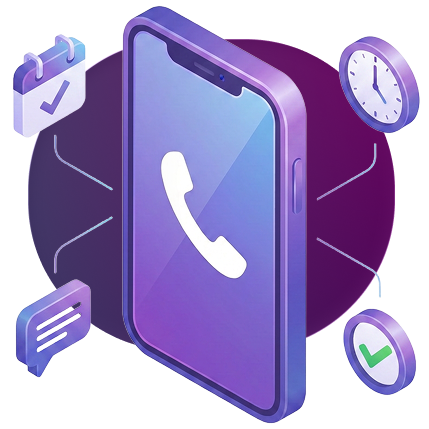
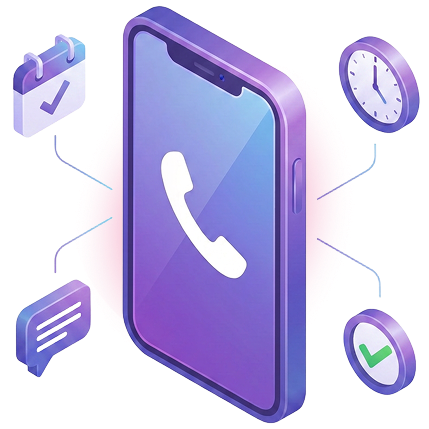
update book calendar

Changed region(s): [[0.5152, 0.0909, 0.9394, 0.7879], [0.0606, 0.1212, 0.3333, 0.8182]]

diff --git a/data/bookACall.ts b/data/bookACall.ts
@@ -19,33 +19,34 @@ export const bookACallHero = {
    * Illustration overlap into the form section (px). Smaller on mobile to avoid excess whitespace.
    */
   heroOverlapPx: {
-    mobile: 64,
-    sm: 88,
-    lg: 140,
+    mobile: 72,
+    sm: 96,
+    lg: 150,
   },
 } as const;
 
 /** Tailwind classes shared by hero image + form overlap (keep in sync with heroOverlapPx). */
 export const bookACallHeroOverlapClasses = {
-  imageMargin: "-mb-16 sm:-mb-[88px] lg:-mb-[140px]",
-  formPull: "-mt-16 sm:-mt-[88px] lg:-mt-[140px]",
-  formSpacer: "h-16 sm:h-[88px] lg:h-[140px]",
+  imageMargin: "-mb-18 sm:-mb-24 lg:-mb-[150px]",
+  formPull: "-mt-18 sm:-mt-24 lg:-mt-[150px]",
+  formSpacer: "h-18 sm:h-24 lg:h-[150px]",
   formContentPt: "pt-16 sm:pt-20 md:pt-28 lg:pt-8",
 } as const;
 
-/** Hero layout tokens — Book A Call reference (title 76px, phone 429×429). */
+/** Hero layout tokens — Elementor / Figma reference (title 76px, phone 429×429). */
 export const bookACallHeroLayout = {
-  contentMinHeight: "min-h-[280px] sm:min-h-[320px] lg:min-h-[400px]",
   gridClassName:
-    "grid min-w-0 items-end gap-6 sm:gap-8 md:grid-cols-[minmax(0,0.44fr)_minmax(0,0.56fr)] lg:gap-10 xl:gap-12",
+    "grid min-w-0 items-center gap-8 md:grid-cols-2 md:gap-10 lg:gap-12 xl:gap-16",
   titleClassName:
-    "font-[var(--font-poppins)] text-[44px] font-bold leading-[1.1] text-balance text-white max-md:text-center md:text-left sm:text-[56px] lg:text-[76px]",
-  titleColumnClassName: "relative z-20 flex min-w-0 items-end max-md:justify-center md:pb-4 lg:pb-6 lg:pt-10 xl:pt-12",
+    "font-[var(--font-poppins)] text-[56px] font-bold leading-[1.1] text-balance text-white max-md:text-center md:text-left lg:text-[76px]",
+  titleColumnClassName:
+    "relative z-20 min-w-0 max-md:text-center md:translate-y-5 lg:translate-y-7 xl:translate-y-8",
   imageColumnClassName:
-    "relative isolate z-40 flex flex-col items-center justify-end md:mx-0 md:ml-auto md:translate-y-4 lg:translate-y-6",
-  imageWrapperClassName: "relative z-40 size-[min(72vw,300px)] sm:size-[360px] lg:size-[429px]",
+    "relative isolate z-40 flex flex-col items-center justify-center md:mx-0 md:ml-auto lg:translate-y-2",
+  imageWrapperClassName:
+    "relative z-40 size-[min(72vw,300px)] sm:size-[360px] lg:size-[429px]",
   imageClassName:
-    "size-full object-contain object-bottom drop-shadow-[0_24px_48px_rgba(0,0,0,0.35)]",
+    "size-full object-contain object-center drop-shadow-[0_24px_48px_rgba(0,0,0,0.35)]",
 } as const;
 
 export const bookACallForm = {

diff --git a/components/pages/book-a-call/BookingCalendarHero.tsx b/components/pages/book-a-call/BookingCalendarHero.tsx
@@ -36,7 +36,6 @@ export function BookingCalendarHero({
     heroImageIntrinsicSize,
   } = bookACallHero;
   const {
-    contentMinHeight,
     gridClassName,
     titleClassName,
     titleColumnClassName,
@@ -51,7 +50,7 @@ export function BookingCalendarHero({
       className="relative overflow-x-hidden overflow-y-visible"
       aria-labelledby={headingId}
     >
-      <div className="relative z-20 pb-0 pt-28 text-white sm:pt-30 lg:pt-[100px]">
+      <div className="relative z-20 bg-[#11104C] pb-0 pt-30 text-white sm:pt-32 lg:pt-[120px]">
         <div className="pointer-events-none absolute inset-0 overflow-hidden" aria-hidden>
           <div className="absolute inset-0 bg-[#0B0E2D]" />
           <div className="absolute inset-0 bg-gradient-to-br from-[#0d1045] via-[#15124f] to-[#3b1a6e]" />
@@ -60,7 +59,7 @@ export function BookingCalendarHero({
           <div className="absolute inset-0 bg-[radial-gradient(ellipse_55%_65%_at_72%_55%,rgba(227,5,141,0.22)_0%,transparent_55%)]" />
         </div>
 
-        <Container className={cn("relative z-20 max-w-[1440px] px-6 lg:px-20", contentMinHeight)}>
+        <Container className="relative z-20 max-w-[1440px] px-6 lg:px-20">
           <div className={gridClassName}>
             <div className={titleColumnClassName}>
               <h1 id={headingId} className={titleClassName}>
@@ -87,9 +86,9 @@ export function BookingCalendarHero({
           </div>
         </Container>
 
-        <div className="relative z-10 -mt-1 w-full sm:-mt-2 lg:-mt-3" aria-hidden>
+        <div className="relative z-10 -mt-1 w-full sm:-mt-2 lg:-mt-4" aria-hidden>
           <svg
-            className="relative z-0 block h-12 w-full sm:h-16 lg:h-24 xl:h-28"
+            className="relative z-0 block h-14 w-full sm:h-20 lg:h-28 xl:h-32"
             viewBox="0 0 1440 124"
             preserveAspectRatio="none"
             xmlns="http://www.w3.org/2000/svg"